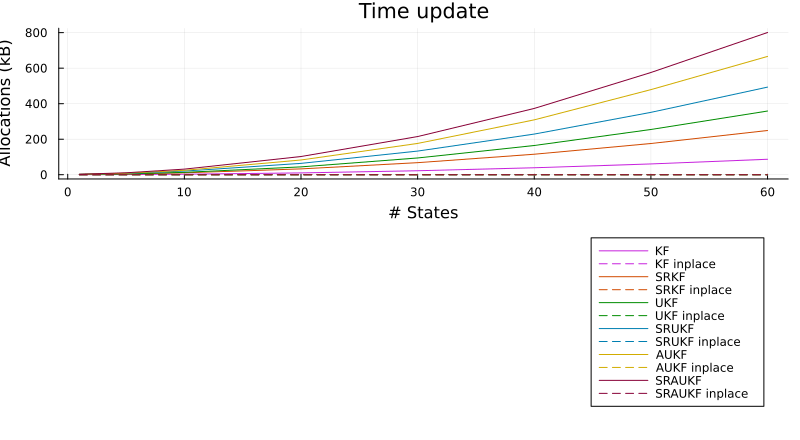
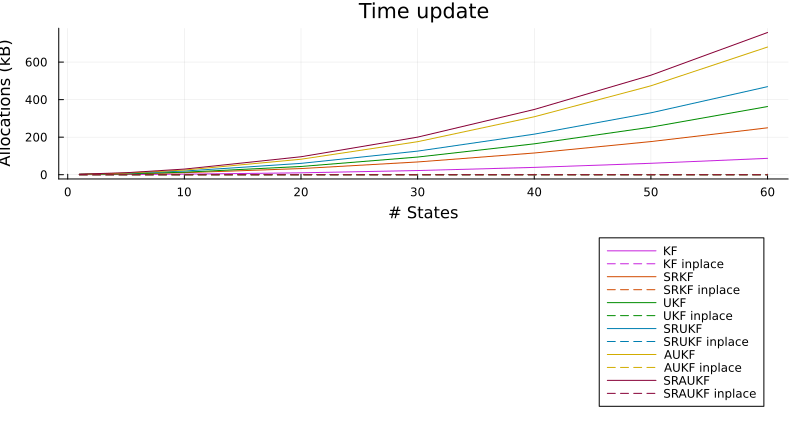
perf: make in-place UKF/AUKF updates faster than allocating versions (#33)
* perf: make in-place UKF/AUKF updates faster than allocating versions

The in-place sigma point covariances used a fused LazyArrays broadcast
(x0*x0' .* w0 .+ xi*xi' .* wi .+ Q) that falls back to a generic
elementwise matrix product instead of BLAS, making the in-place UKF/AUKF
time update ~3x slower than the allocating version for 60 states.

- cov!: copyto! + mul! (BLAS) + rank-1 broadcast update
- cross-covariance cov!: single triangular lmul! on the difference of views
- substract_mean!: broadcast on fields directly instead of the custom
  TransformedSigmaPoints broadcast

* docs: update benchmark plots in the README

Regenerated with benchmark/run_benchmarks.jl after the in-place
performance fixes. The in-place variants no longer allocate and are at
least as fast as the allocating variants, so the note about the
in-place variant sometimes being slower is replaced.

---------

diff --git a/README.md b/README.md
@@ -146,7 +146,7 @@ There is a benchmark to compare the different implementations in the benchmark f
 ![Measurement update timings](benchmark/mu_time.png)
 ![Measurement update allocations](benchmark/mu_alloc.png)
 
-In same cases the inplace variant is slower than the allocating variant. More investigation is needed to find out why this is the case.
+The inplace variants do not allocate and are at least as fast as the allocating variants. For the (linear) Kalman-Filter and the Square-Root Kalman-Filter the gain shrinks for larger numbers of states, because the runtime is then dominated by the matrix products and the QR decomposition, which both variants share.
 
 ### Benchmark CI
 
